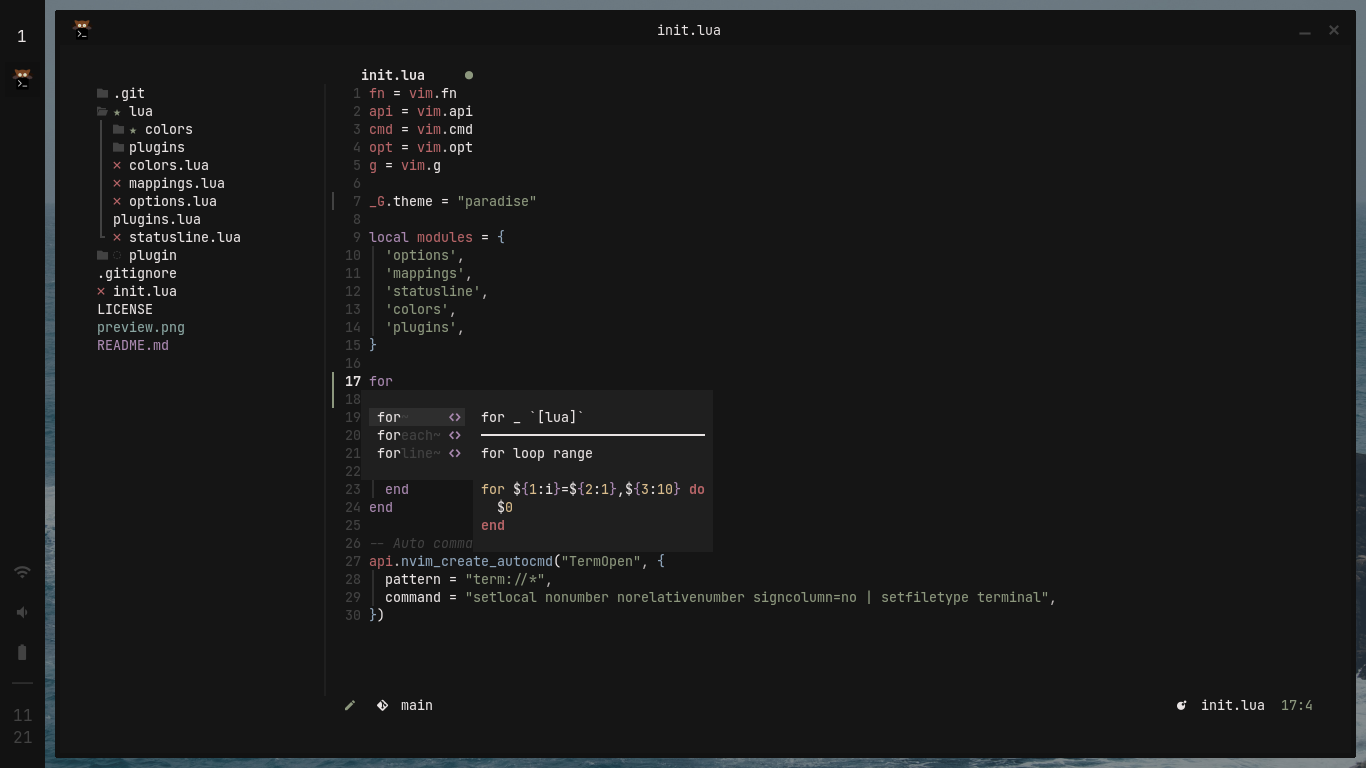
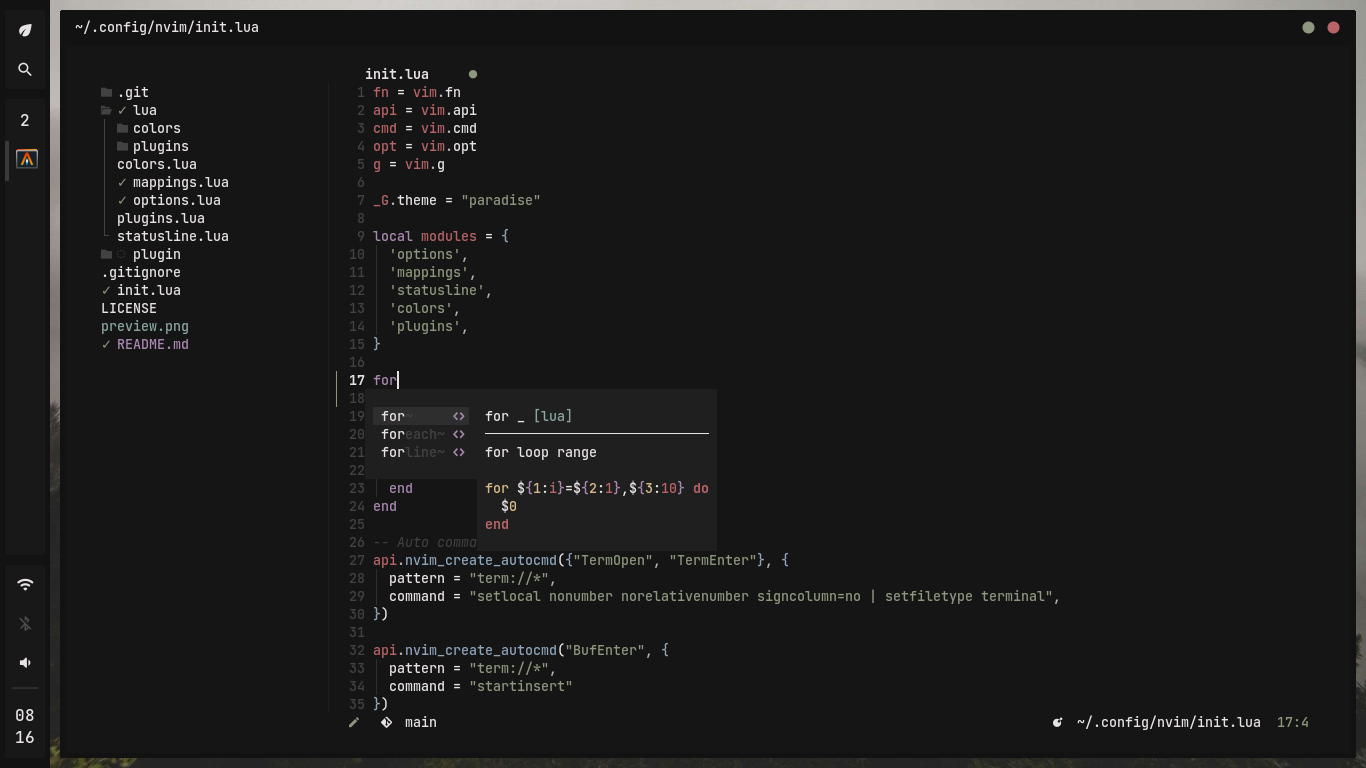
autocommand for term & ui edits

diff --git a/README.md b/README.md
@@ -66,7 +66,6 @@ nvim --headless -c 'autocmd User PackerComplete quitall' -c 'PackerSync'
   | f + f          | Open telescope find_files         |
   | Control + n    | Toggle Nvim tree                  |
   | Control + b    | Focus Nvim tree                   |
-  | Space + h      | Hard Update                       |
 
 ## Special Thanks
 - [Mangeshrex](https://github.com/Mangeshrex)
